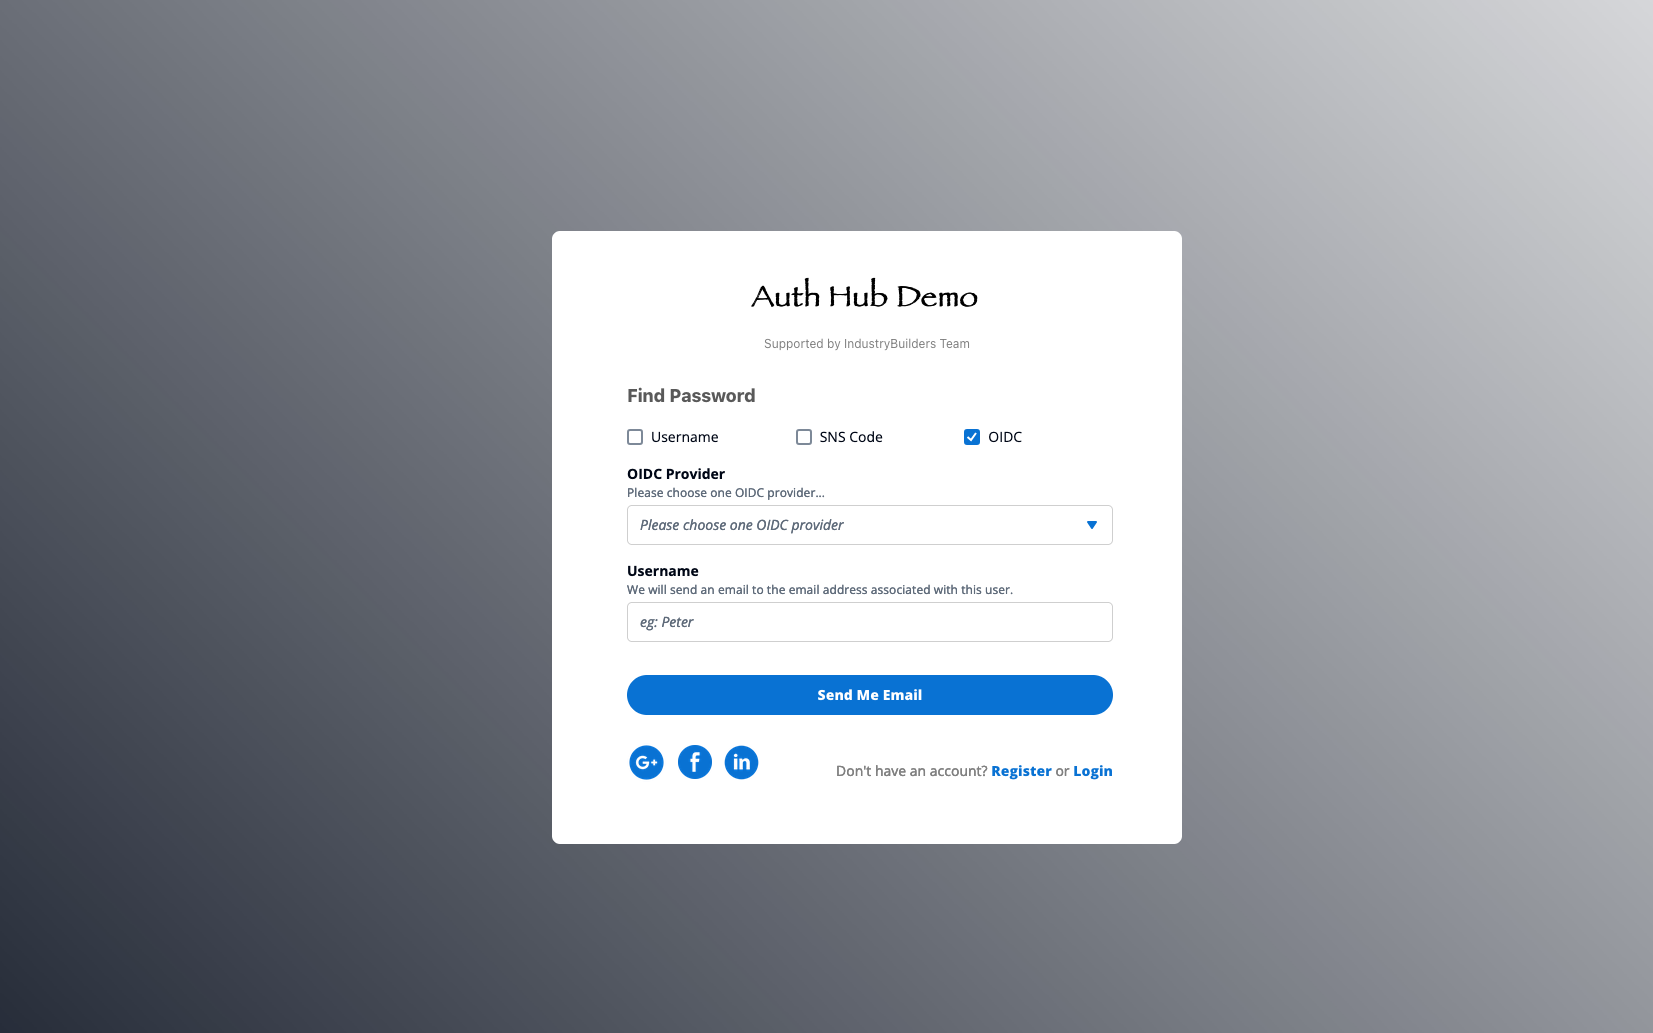
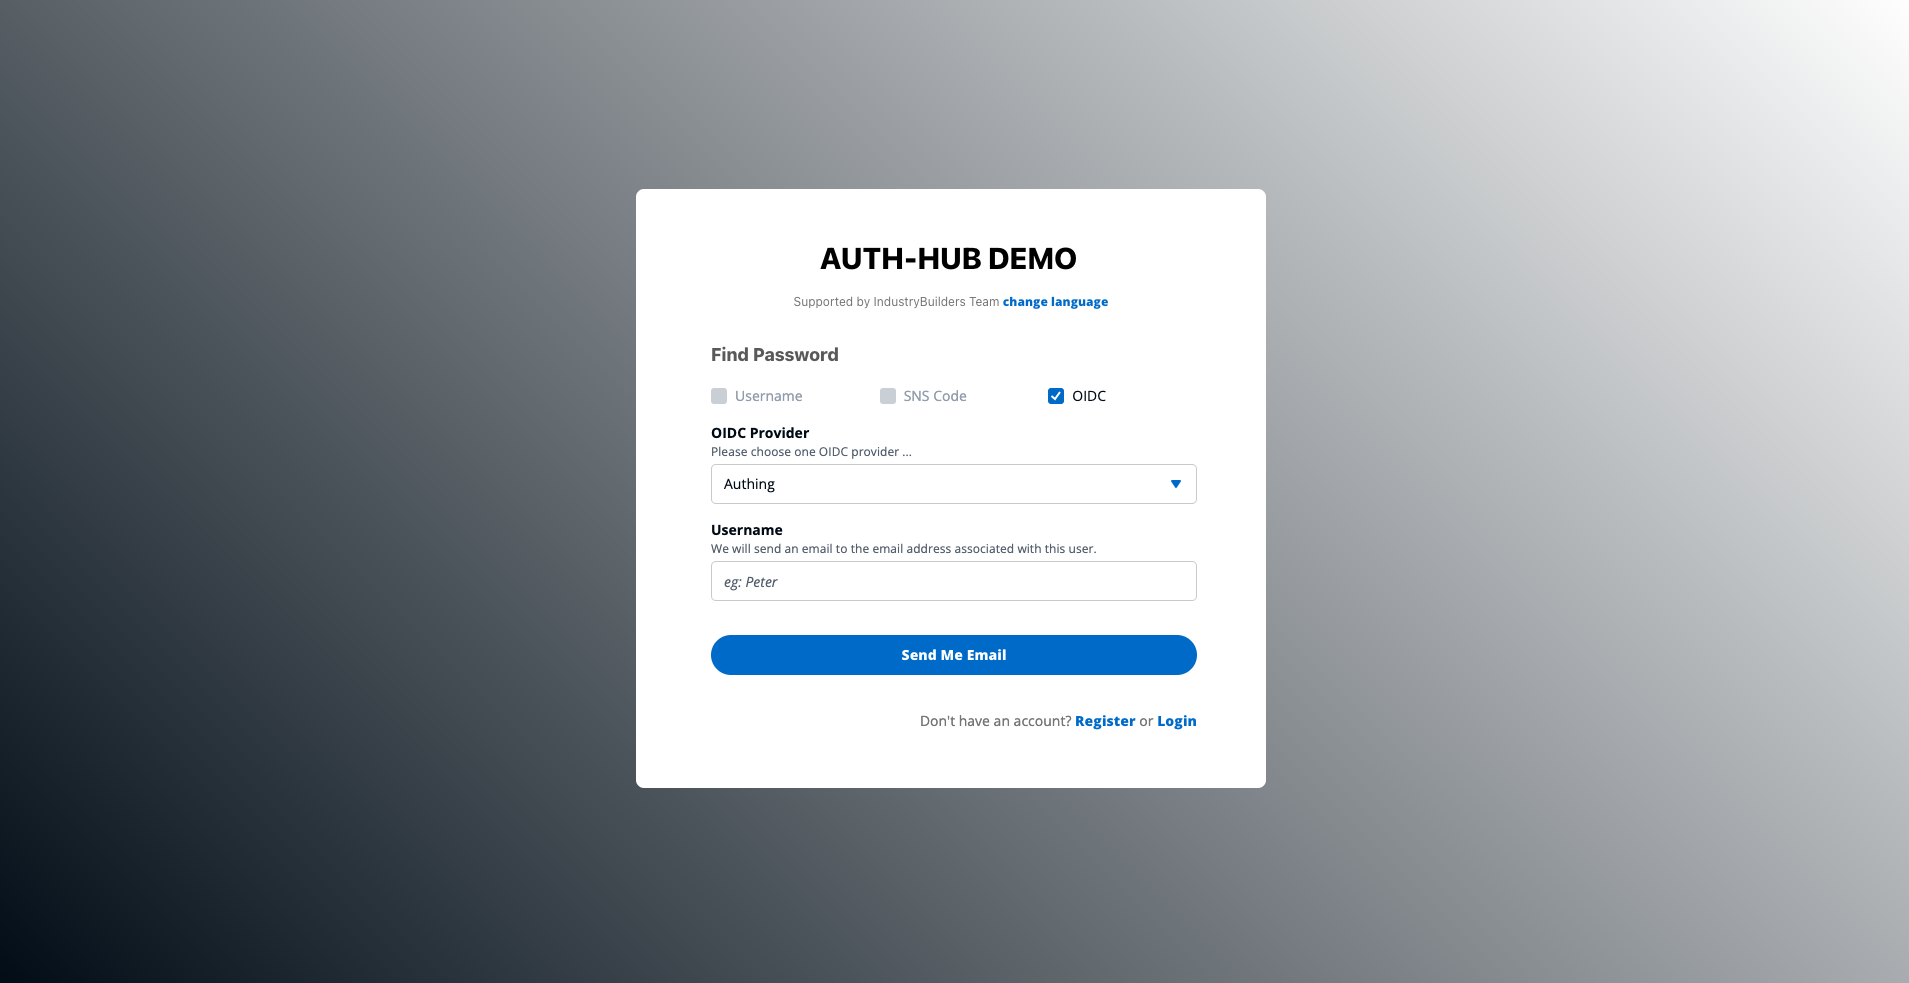
refactor

diff --git a/source/app/src/pages/login/index.tsx b/source/app/src/pages/login/index.tsx
@@ -243,7 +243,7 @@ const Login: FC = () => {
     )
       await signInWithRedirect({
         provider:{
-          custom: "auth-hub-midway"
+          custom: midwayConfig?.provider
         }
         })
     } catch (error){

diff --git a/README.md b/README.md
@@ -37,7 +37,8 @@ OIDC登录
 ![home](/source/app/public/imgs/home.png)
 
 链接：https://deu59wuttwjgy.cloudfront.net 
-    （Authing：用户名和密码均为demo）
+ (Authing：用户名和密码均为demo）
+ (Amazon内部用户直接点击最下面"Amazon Midway 认证"即可登录)
 
 ### 如何使用
 #### 文档结构
@@ -124,49 +125,43 @@ cd auth-hub-demo
 步骤 3: 在编辑器中打开配置文件自定义登录信息
 前端：source/app/public/config.yaml
 ```bash
-project: "Auth Hub Demo"                               
+project: "AUTH-HUB DEMO"
 version: "0.0.1"
 author: "IndustryBuilders Team"
 login:
   user: 
-    label: "Username"
     value: "username"
     disabled: true
   sns: 
-    label: "SNS Code"
     value: "sns"
     disabled: true
   oidc:
-    label: "OIDC"
     value: "oidc"
     providers:
-      - name: "Authing"
-        iconUrl: "authing"
-        description: "Authentication service for ensuring application security"
+      - name: "authing"
+        label: "Authing"
         clientId: "66b769cf5c2d439dfd37f237"
         redirectUri: "https://demo-center.authing.cn"
-        issuer: ""
-        audience: ""
-      - name: "Keycloak"
-        iconUrl: "keycloak"
-        description: "Open Source Identity and Access Management"
-        clientId: "668d3fa8e264cf3675dcc42a"
-        redirectUri: "https://intelli-agent.authing.cn"
-        diabled: true
-  third:
-    - type: "google"
-      iconUrlSelected: "google_in"
-      iconUrl: "google"
-      iconStyle: {"width":39,"marginTop":-2}
-    - type: "facebook"
-      iconUrlSelected: "facebook_in"
-      iconUrl: "facebook"
-      iconStyle: {"width":34}
-    - type: "linkedin"
-      iconUrlSelected: "linkedin_in"
-      iconUrl: "linkedin"
-      iconStyle: {"width":35}
+  sso:
+    midway:
+      user_pool_id: us-east-1_IM5zGhc8w
+      user_pool_client_id: 2m165ontae26nt91gesos569pl
+      auth:
+        domain: us-east-1im5zghc8w.auth.us-east-1.amazoncognito.com
+        scopes:
+          - openid
+          - email
+          - aws.cognito.signin.user.admin
+          - profile
+        redirect_signin:
+          - https://deu59wuttwjgy.cloudfront.net/login
+          - http://localhost:3088/login
+        redirect_signout:
+          - https://deu59wuttwjgy.cloudfront.net
+          - http://localhost:3088
 ```
+> ⚠ **警告**: 如果需要配置Midway认证，需要提前进入aws cognito控制台创建midway provider，并设置配置所需的信息，具体操作请咨询作者。
+
 后端：lib/auth-hub/config.yaml
 ```bash
 oidc_providers:
@@ -174,23 +169,15 @@ oidc_providers:
     clients:
       - client_id: 66b769cf5c2d439dfd37f237
         client_secret: 7dab7e589bf215fa8778609c54d90f9c
-  keycloak:
-    clients:
-      - client_id: 6fsdfdsdddddsadsf434ssd3
-        client_secret: fasded3442324dfsd8632sddsa
 ```
 
 步骤5:  部署stack
-1. 默认自带cogonito
+
 ```bash
 npm i
 npx cdk deploy 
 ```
-2. 不需要部署cognito
-```bash
-npm i
-npx cdk deploy --parameters cogonito=false
-```
+
 4.3 内置APIs
 |路径     |请求方式|参数       |含义      ｜
 | :----- | ---:  | :------: | :------: |
